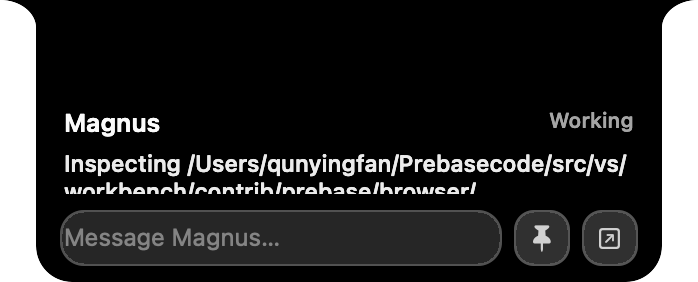
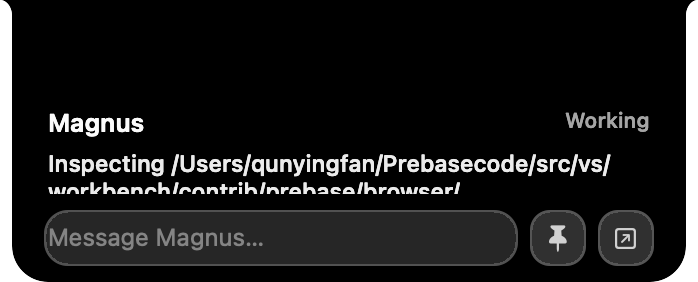
fix(notch): unify authoritative 6pt geometry, enable background quick messaging, and persist new sessions

Changed region(s): [[0.0, 0.0, 0.9026, 1.0], [0.692, 0.0, 0.9928, 1.0]]

diff --git a/src/vs/workbench/contrib/prebase/browser/magnusLiveActivityContribution.ts b/src/vs/workbench/contrib/prebase/browser/magnusLiveActivityContribution.ts
@@ -86,17 +86,18 @@ function selectPrimaryMagnusModel(models: Iterable<IChatModel>): IChatModel | un
 }
 
 /** List all active Magnus sessions for notch session switcher. */
-function listMagnusSessions(models: Iterable<IChatModel>, selectedSessionId?: string): { sessionId: string; sessionResource: string; title: string; isBusy: boolean; lastMessageDate: number }[] {
+function listMagnusSessions(models: Iterable<IChatModel>, selectedSessionId?: string, createdMagnusSessionIds?: ReadonlySet<string>): { sessionId: string; sessionResource: string; title: string; isBusy: boolean; lastMessageDate: number }[] {
 	const result: { sessionId: string; sessionResource: string; title: string; isBusy: boolean; lastMessageDate: number }[] = [];
 	for (const model of models) {
 		const isCanonicalSelected = selectedSessionId !== undefined && model.sessionId === selectedSessionId;
-		if (!isMagnusModel(model) && !isCanonicalSelected) {
+		const isCreatedMagnus = createdMagnusSessionIds !== undefined && createdMagnusSessionIds.has(model.sessionId);
+		if (!isMagnusModel(model) && !isCanonicalSelected && !isCreatedMagnus) {
 			continue;
 		}
 		result.push({
 			sessionId: model.sessionId,
 			sessionResource: model.sessionResource.toString(),
-			title: model.title || (isCanonicalSelected && model.getRequests().length === 0 ? 'New Magnus Session' : 'Untitled session'),
+			title: model.title || ((isCanonicalSelected || isCreatedMagnus) && model.getRequests().length === 0 ? 'New Magnus Session' : 'Untitled session'),
 			isBusy: model.requestInProgress.get() || model.hasActiveRequest.get() || Boolean(model.requestNeedsInput.get()),
 			lastMessageDate: model.lastMessageDate,
 		});
@@ -341,6 +342,7 @@ export class MagnusLiveActivityContribution extends Disposable implements IWorkb
 	private _selectedSessionId: string | undefined;
 	private _selectedSessionResource: string | undefined;
 	private readonly _actionLedger = new Map<string, MagnusLiveActivityAction>();
+	private readonly _createdMagnusSessionIds = new Set<string>();
 	private readonly _modelListeners = this._register(new DisposableStore());
 	private readonly _push: RunOnceScheduler;
 	private readonly _completionTimer: RunOnceScheduler;
@@ -534,7 +536,7 @@ export class MagnusLiveActivityContribution extends Disposable implements IWorkb
 		if (this._selectedSessionId) {
 			model = allModels.find(m => m.sessionId === this._selectedSessionId);
 			if (model) {
-				if (!isMagnusModel(model) && model.getRequests().length > 0) {
+				if (!isMagnusModel(model) && model.getRequests().length > 0 && !this._createdMagnusSessionIds.has(model.sessionId)) {
 					// Non-Magnus requests finished on this session; reset canonical selection
 					this._selectedSessionId = undefined;
 					this._selectedSessionResource = undefined;
@@ -552,7 +554,7 @@ export class MagnusLiveActivityContribution extends Disposable implements IWorkb
 				this._selectedSessionResource = model.sessionResource.toString();
 			}
 		}
-		const availableSessions = listMagnusSessions(allModels, this._selectedSessionId);
+		const availableSessions = listMagnusSessions(allModels, this._selectedSessionId, this._createdMagnusSessionIds);
 		this._revision += 1;
 		const userHideDetails = Boolean(this.configurationService.getValue<boolean>('prebase.magnus.liveActivity.hideDetails'));
 		const sessionId = model?.sessionId;
@@ -710,9 +712,9 @@ export class MagnusLiveActivityContribution extends Disposable implements IWorkb
 			const allModels = Array.from(this.chatService.chatModels.get());
 			let targetModel: IChatModel | undefined;
 			if (targetSessionId) {
-				targetModel = allModels.find(m => m.sessionId === targetSessionId && (isMagnusModel(m) || m.sessionId === this._selectedSessionId));
+				targetModel = allModels.find(m => m.sessionId === targetSessionId && (isMagnusModel(m) || this._createdMagnusSessionIds.has(m.sessionId) || m.sessionId === this._selectedSessionId));
 			} else if (targetResourceStr) {
-				targetModel = allModels.find(m => m.sessionResource.toString() === targetResourceStr && (isMagnusModel(m) || m.sessionId === this._selectedSessionId));
+				targetModel = allModels.find(m => m.sessionResource.toString() === targetResourceStr && (isMagnusModel(m) || this._createdMagnusSessionIds.has(m.sessionId) || m.sessionId === this._selectedSessionId));
 			}
 			if (targetModel) {
 				this._selectedSessionId = targetModel.sessionId;
@@ -729,6 +731,7 @@ export class MagnusLiveActivityContribution extends Disposable implements IWorkb
 			const ref = this.chatService.startNewLocalSession(ChatAgentLocation.Chat);
 			try {
 				const model = ref.object;
+				this._createdMagnusSessionIds.add(model.sessionId);
 				this._selectedSessionId = model.sessionId;
 				this._selectedSessionResource = model.sessionResource.toString();
 				await this.chatWidgetService.openSession(model.sessionResource);
@@ -744,6 +747,14 @@ export class MagnusLiveActivityContribution extends Disposable implements IWorkb
 			logService: this.logService,
 			onInteractionApplied: () => this._push.schedule(),
 		});
+	}
+
+	public get selectedSessionId(): string | undefined {
+		return this._selectedSessionId;
+	}
+
+	public get createdMagnusSessionIds(): ReadonlySet<string> {
+		return this._createdMagnusSessionIds;
 	}
 
 	public refresh(): void {
@@ -954,7 +965,7 @@ registerAction2(class extends Action2 {
 	}
 	run(accessor: ServicesAccessor) {
 		const chatService = accessor.get(IChatService);
-		return listMagnusSessions(chatService.chatModels.get());
+		return listMagnusSessions(chatService.chatModels.get(), MagnusLiveActivityContribution.instance?.selectedSessionId, MagnusLiveActivityContribution.instance?.createdMagnusSessionIds);
 	}
 });
 

diff --git a/src/vs/workbench/contrib/prebase/browser/magnusLiveActivitySession.ts b/src/vs/workbench/contrib/prebase/browser/magnusLiveActivitySession.ts
@@ -119,6 +119,16 @@ export function extractTranscriptFromModel(
 					responseText += part.content.value;
 				}
 			}
+			if (!responseText.trim()) {
+				const fallbackValue = (req.response as unknown as { response?: { value?: unknown } }).response?.value;
+				if (typeof fallbackValue === 'string') {
+					responseText = fallbackValue;
+				} else if (Array.isArray(fallbackValue)) {
+					responseText = fallbackValue
+						.map(p => typeof p === 'string' ? p : (p && typeof p === 'object' && 'value' in p ? String((p as { value: unknown }).value) : ''))
+						.join('');
+				}
+			}
 			responseText = responseText.trim();
 			if (responseText) {
 				const sanitized = redactLiveActivityText(responseText).slice(0, maxChars);

diff --git a/native/prebase-live-activity/src/live_activity.mm b/native/prebase-live-activity/src/live_activity.mm
@@ -440,10 +440,9 @@ static SilhouetteShoulderMetrics ComputeSilhouetteShoulderMetrics(
 	BOOL isExpanded)
 {
 	SilhouetteShoulderMetrics metrics = {};
-	// Housing-anchored shoulder: the transition curve from housing edge to body wall.
-	// Compact uses minimal shoulders; expanded uses pronounced shoulders that flare
-	// the silhouette outward from the physical housing.
-	CGFloat effR = isExpanded ? 18.0 : 6.0;
+	// Authoritative single shoulder radius: 6pt shallow concave curve matching physical MacBook notch bezel.
+	// Preserves visual continuity from compact to expanded without exaggerated horizontal ears.
+	CGFloat effR = 6.0;
 	metrics.effShoulderR = effR;
 	metrics.opticalInset = effR + 2.0;
 	metrics.flare = effR;
@@ -451,6 +450,7 @@ static SilhouetteShoulderMetrics ComputeSilhouetteShoulderMetrics(
 	metrics.wingRightX = totalW - effR;
 	return metrics;
 }
+
 
 typedef NS_ENUM(NSInteger, PrebasePresentationState) {
 	PrebasePresentationStateHidden = 0,
@@ -551,8 +551,8 @@ static CGPathRef CreateNotchedIslandPath(CGFloat totalW,
 		// a natural downward growth from the physical notch, not a floating card.
 		//
 		// Element ordering matches compact for smooth CAShapeLayer morph (14 elements).
-		CGFloat shoulderDrop = 14.0; // subtle flare — body walls stay close to panel edges
-		CGFloat shoulderCurve = effShoulderR; // 18pt cubic bezier radius
+		CGFloat shoulderDrop = 8.0; // gentle 8pt drop matching bezel curvature
+		CGFloat shoulderCurve = effShoulderR; // 6pt cubic bezier radius
 		// Body walls inset only by the shoulder curve — no extra bottom-radius offset.
 		// This keeps the expanded body nearly full-width, anchored to the physical housing.
 		CGFloat bodyLeft = shoulderCurve;
@@ -2530,8 +2530,8 @@ static NSString *JSString(Napi::Value value) {
 		self.content.leftWingWidth + self.content.housingWidth + self.content.rightWingWidth);
 	CGFloat totalW = [self computeExpandedWidth:naturalW];
 	// Path-aware safe inset: body is full width, content inset is kContentInsetX + safe extra.
-	// Expanded shoulder radius is 18pt with pronounced flare — content needs more room.
-	CGFloat sideInset = ContentSafeInsetX(self.content.notched, 18.0, YES);
+	// Authoritative shoulder radius is 6pt matching physical MacBook bezel.
+	CGFloat sideInset = ContentSafeInsetX(self.content.notched, 6.0, YES);
 	CGFloat contentW = MAX(40, totalW - sideInset * 2);
 	CGFloat h = bandH + kContentInsetTop;
 	h += kHeaderRowHeight + kContentGap;
@@ -3058,6 +3058,11 @@ static NSString *JSString(Napi::Value value) {
 				if (strong.panel && !NSPointInRect(p, strong.panel.frame)) {
 					[strong collapseEmittingDismiss:YES];
 				}
+			} else if (!strong.content.expanded && strong.visible) {
+				NSPoint p = [NSEvent mouseLocation];
+				if (NSPointInRect(p, strong.collapsedHit)) {
+					[strong enterInteractiveSticky];
+				}
 			}
 		}];
 	}
@@ -3106,14 +3111,14 @@ static NSString *JSString(Napi::Value value) {
 		[NSEvent removeMonitor:self.globalMonitor];
 		self.globalMonitor = nil;
 	}
-	if (self.globalClickMonitor) {
-		[NSEvent removeMonitor:self.globalClickMonitor];
-		self.globalClickMonitor = nil;
-	}
 }
 
 - (void)removeMonitors {
 	[self removeGlobalMonitorOnly];
+	if (self.globalClickMonitor) {
+		[NSEvent removeMonitor:self.globalClickMonitor];
+		self.globalClickMonitor = nil;
+	}
 	[self removeLocalKeyMonitor];
 }
 
@@ -3240,6 +3245,10 @@ static NSString *JSString(Napi::Value value) {
 	self.exitTimer = nil;
 	self.panel.ignoresMouseEvents = NO;
 	self.ignoresMouse = NO;
+	[self.panel makeKeyAndOrderFront:nil];
+	if (self.input && self.input.window && !self.input.isHidden) {
+		[self.panel makeFirstResponder:self.input];
+	}
 	[self installLocalKeyMonitor];
 	[self removeGlobalMonitorOnly];
 	self.pendingPresentationMorph = YES;

diff --git a/native/prebase-live-activity/src/live_activity_layout.h b/native/prebase-live-activity/src/live_activity_layout.h
@@ -14,22 +14,6 @@ namespace live_activity {
 /** Kappa constant for cubic Bezier approximation of circular arcs. */
 static constexpr CGFloat kKappa = 0.5522847498307933984022516322796;
 
-/** Layout tokens and metrics. */
-struct LayoutTokens {
-	static constexpr CGFloat kHeaderRowHeight = 16.0;
-	static constexpr CGFloat kContentGap = 3.0;
-	static constexpr CGFloat kContentInsetTop = 6.0;
-	static constexpr CGFloat kContentFooterGutter = 8.0;
-	static constexpr CGFloat kControlHeight = 28.0;
-	static constexpr CGFloat kIconControlSize = 28.0;
-	static constexpr CGFloat kControlGap = 6.0;
-	static constexpr CGFloat kActionRowHeight = 15.0;
-	static constexpr CGFloat kComposerCornerRadius = 12.0;
-	static constexpr CGFloat kBottomCornerRadius = 18.0;
-	static constexpr CGFloat kContentMinScrollHeight = 24.0;
-	static constexpr CGFloat kExpandedHeightMin = 72.0;
-	static constexpr CGFloat kExpandedHeightMax = 220.0;
-};
 
 /** Cubic Bezier control points for C1 tangent-continuous concave shoulder. */
 struct ConcaveShoulderBezier {
